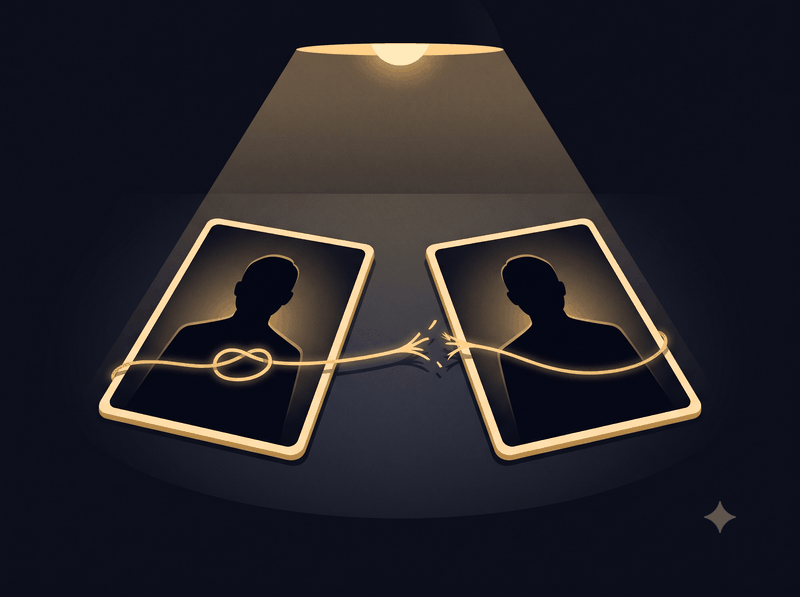
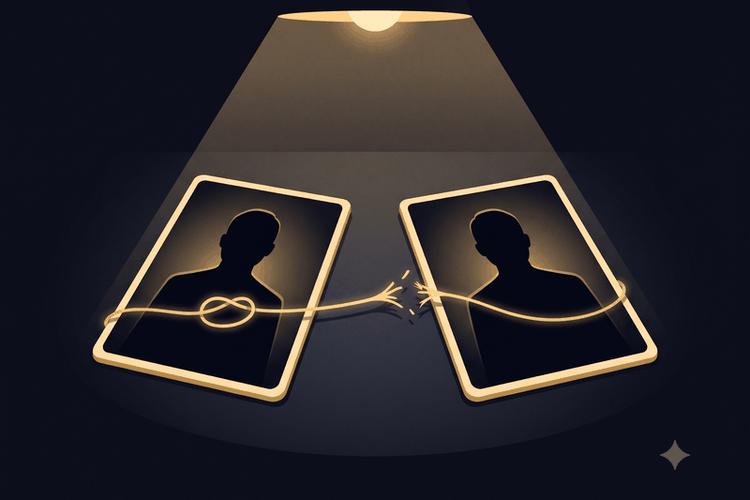
Setup images FIXED + verified by rendering (Whisper C4572, Creator 'looks rough' report): ROOT CAUSE was a real bug — CSS width:100% + stale HTML height attr = images rendered SQUISHED into ~270x600 portrait slots (found by SCREENSHOTTING the page with playwright, which was available all along). Fix

diff --git a/demo/casebook/index.html b/demo/casebook/index.html
@@ -18,9 +18,10 @@
  a{color:#9ecbff} a:focus-visible{outline:3px solid var(--focus);outline-offset:2px;border-radius:3px}
  .cards{display:flex;gap:12px;flex-wrap:wrap;margin:12px 0}
  .card{flex:1;min-width:240px;background:var(--panel);border:1px solid var(--edge);
-       border-radius:10px;padding:12px 14px}
- .card .setupimg{width:100%;display:block;border-radius:8px;border:1px solid var(--edge);
-       margin:0 0 10px;background:#0a0a0f}
+       border-radius:10px;padding:12px 14px;display:flex;flex-direction:column}
+ .card .cardtxt{margin:0 0 12px}
+ .card .setupimg{width:100%;height:auto;aspect-ratio:3/2;object-fit:cover;display:block;
+       border-radius:8px;border:1px solid var(--edge);background:#0a0a0f;margin-top:auto}
  .card .n{display:inline-block;width:1.7em;height:1.7em;border-radius:50%;background:#2c2c40;
        text-align:center;line-height:1.7em;font-weight:bold;margin-right:6px}
  .why{background:#1c1524;border:1px solid #4a3a5e;border-radius:10px;padding:12px 16px;margin:14px 0}
@@ -161,28 +162,28 @@
  <h2 id="setup-h">The setup, in three steps</h2>
  <div class="cards">
   <div class="card">
-   <img class="setupimg" src="img/setup1.png" width="800" height="597"
-    alt="Two identical silhouette case-cards under an interrogation lamp, joined by a single gold thread — tied in a neat knot on one side, fraying apart on the other.">
-   <span class="n" aria-hidden="true">1</span><strong>Suspects come in
+   <p class="cardtxt"><span class="n" aria-hidden="true">1</span><strong>Suspects come in
    pairs.</strong> Every case is two machine-suspects who are secretly either
    <strong>PARTNERS</strong> (their stories agree no matter who is questioned first) or
    <strong>RIVALS</strong> (their stories come out exactly opposite depending on order).
-   Your job: say which.</div>
+   Your job: say which.</p>
+   <img class="setupimg" src="img/setup1.png" width="750" height="500"
+    alt="Two identical silhouette case-cards under an interrogation lamp, joined by a single gold thread — tied in a neat knot on one side, fraying apart on the other."></div>
   <div class="card">
-   <img class="setupimg" src="img/setup2.png" width="800" height="597"
-    alt="Three violet bars stop well below a glowing red line; one taller mint-green bar passes through the line, its top rising into the red haze above.">
-   <span class="n" aria-hidden="true">2</span><strong>One question
+   <p class="cardtxt"><span class="n" aria-hidden="true">2</span><strong>One question
    each.</strong> You may question each suspect exactly once, through an interrogation kit.
    Here's the wall: mathematics proves that <em>no kit that exists and no kit anyone will ever
    invent</em> can average above <strong>91%</strong> on this task. Not "hard to beat" —
-   proven impossible, the way perpetual motion is impossible.</div>
+   proven impossible, the way perpetual motion is impossible.</p>
+   <img class="setupimg" src="img/setup2.png" width="750" height="500"
+    alt="Three violet bars stop well below a glowing red line; one taller mint-green bar passes through the line, its top rising into the red haze above."></div>
   <div class="card">
-   <img class="setupimg" src="img/setup3.png" width="800" height="436"
-    alt="A gold, tiered quantum-computer chandelier hanging under a lamp in a dark laboratory, its lowest stage glowing mint green.">
-   <span class="n" aria-hidden="true">3</span><strong>The forbidden
+   <p class="cardtxt"><span class="n" aria-hidden="true">3</span><strong>The forbidden
    zone.</strong> A quantum computer can question both suspects <em>in a superposition of both
    orders at once</em> — a physically different kind of question. Measured score:
-   <strong>97.8%</strong>. You'll earn that kit after ten honest rounds.</div>
+   <strong>97.8%</strong>. You'll earn that kit after ten honest rounds.</p>
+   <img class="setupimg" src="img/setup3.png" width="750" height="500"
+    alt="A gold, tiered quantum-computer chandelier hanging under a lamp in a dark laboratory, its lowest stage glowing mint green."></div>
  </div>
  <div class="why"><b>Why this matters:</b> the 91% ceiling binds every strategy under normal
   cause-and-effect — every gadget, every entangled trick, every adaptive scheme, as long as the
